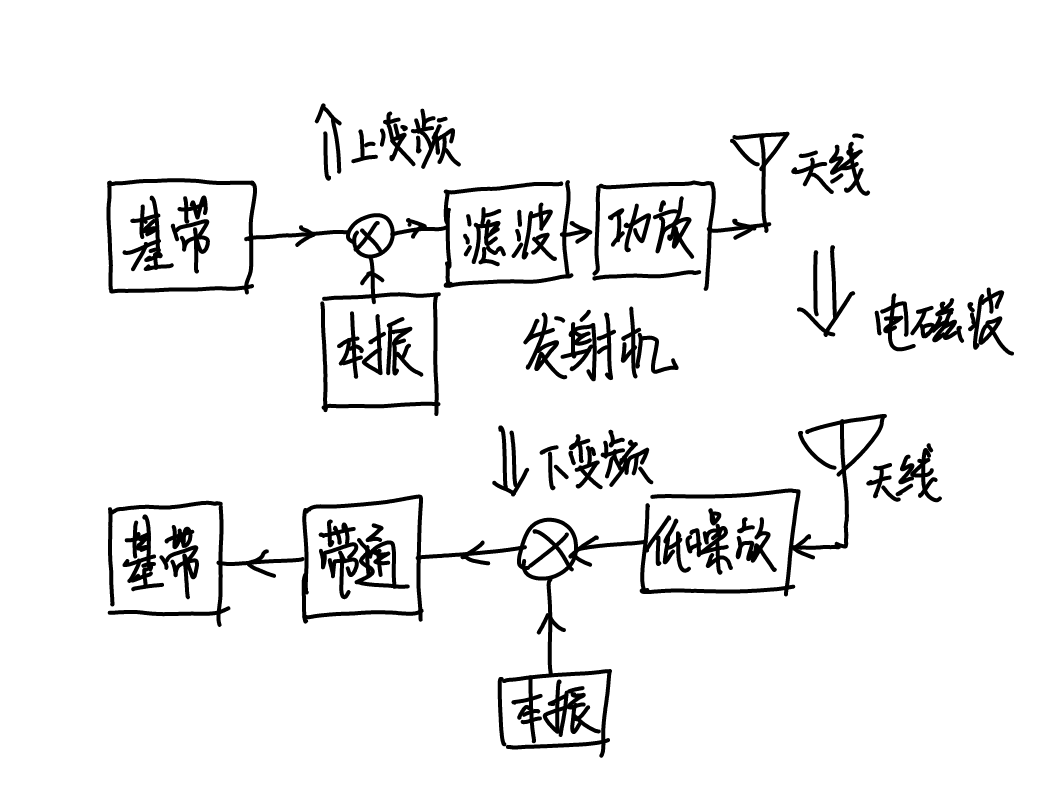
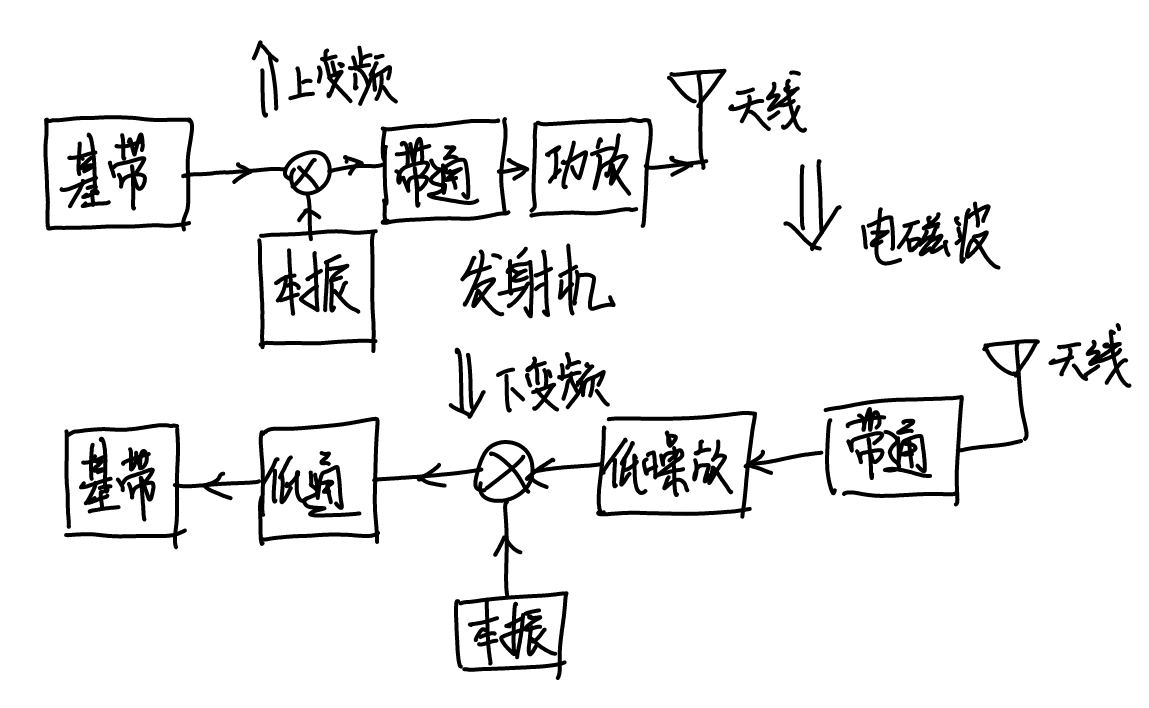
这老印讲的什么狗屁东西

Changed region(s): [[0.0308, 0.0621, 0.9846, 0.9633], [0.3692, 0.5904, 0.4, 0.6215]]

diff --git a/EE6303/信号链IM/信号链IM.md b/EE6303/信号链IM/信号链IM.md
@@ -2,9 +2,9 @@
 
 这名是我起的，主要包含了Example3、4两道例题涉及到的知识点。想先讲一下收发机的信号链路，不然做这个题基本等于抓瞎。
 
-## Example3与收发机的信号链路分析
+## 收发机的信号链路分析
 
-A HF transceiver and a VHF transceiver (both $\mathrm{50\Omega}$) are to operate close to each other. The specifications of the two transceivers are shown in the table. With a separation distance of $100m$, and assuming that the antennas are placed at the same height with maximum coupling, identify the various interference cases and compute the interference margins when the HF is operating at $\mathrm{10MHz}$ and the VHF is operating at $\mathrm{35MHz}$.
+
 
 首先来看一个最简化的发射与接收的信号链路。根据Friss Transfer Function的顺序进行分析
 
@@ -17,13 +17,13 @@ A HF transceiver and a VHF transceiver (both $\mathrm{50\Omega}$) are to operate
 
 ### 发射端发射功率 $P_t$
 
-发射端经过本振上变频至射频后滤除多余的频率分量（这边考虑的模型都是零中频的），随后送进功放提高功率送天线进行发射。这就是发射端信号走过的路径。以Example3中HF天线的特性我们来分析一下发射机的特性（暂时不考虑收和发一体的模型，太烦了）。
+发射端经过本振上变频至射频后经过选频滤波器（滤除天线工作范围以外的频率分量，本振出来会有谐波分量），随后送进功放提高功率送天线进行发射。这就是发射端信号走过的路径。以Example3中HF天线的特性我们来分析一下发射机的特性（暂时不考虑收和发一体的模型，那玩意还有双工器，太烦了）。
 
 <div align=center>
 <img src="example3_fig1.png">
 </div>
 
-首先是2-30MHz，这意味着射频部分的工作带宽。本振能够在2-30MHz调整，滤波器、功放、天线都能够支持2-30MHz的发射。与这个频率范围相对的自然是下面的Bandwidth=25kHz，这一带宽是发射机的实时带宽。也就是说，虽然载波频率能够在2-30MHz范围内调整，但同一时刻的频谱宽度只有25kHz.
+首先是2-30MHz，这意味着射频部分的工作带宽。本振能够在2-30MHz调整，滤波器、功放、天线的通带是2-30MHz，其他频率需要抑制掉。与这个频率范围对应的是下面的Bandwidth=25kHz，这一带宽是发射机的实时带宽，与基带带宽有关。也就是说，虽然载波频率能够在2-30MHz范围内调整，但同一时刻的频谱宽度只有25kHz.
 
 <div align=center>
 <img src="发射机频谱1.png" width=60%>
@@ -34,11 +34,11 @@ A HF transceiver and a VHF transceiver (both $\mathrm{50\Omega}$) are to operate
 
 ##### 概念：一大堆 $dB$
 
-要记住的是只有 $dBm$ 代表的是绝对功率，其他都是相对的功率，也就说 $dB$ 们的计算必须从 $dBm$ 出发到 $dBm$ 去（这话怎么怪怪的）。 $dBc$ 代表相对于中心频率的差值， $dBi$ 代表天线能够提高的增益，路径损耗直接用了 $dB$ 没有后缀。反正只要记住不带 $m$ 的都是相对值，必须有一个绝对值作为参照才能作为最终的结果。
+要记住的是只有 $dBm$ 代表的是绝对功率，其他都是相对的功率，也就说 $dB$ 们的计算必须从 $dBm$ 出发到 $dBm$ 去（这话怎么怪怪的）。 $dBc$ 代表相对于中心频率的差值， $dBi$ 代表天线能够提高的增益，路径损耗、极化损失直接用了 $dB$ 没有后缀。反正只要记住不带 $m$ 的都是相对值，必须有一个绝对值作为参照才能作为最终的结果。
 
 ##### 尝试理解老印的脑回路：Spurious Level
 
-按照老印的思路，发射与接收的Spurious Level其实是要分开看的（反正不是对收发机完整的建模就是了）。这一块我觉得他是把发射时的噪声底和接收时下变频后的低通滤波器带外抑制（想要知道这个低通滤波器怎么来的得从盘古开天辟地开始说起了）混在一起讲了，在做题的时候需要发射与接收分开考虑。发射时的Spurious Level并不会衰减谐波分量，然而在接收时会衰减
+按照老印的思路，发射与接收的Spurious Level其实是要分开看的（反正不是对收发机完整的建模就是了）。这一块我觉得他是把发射时的噪声底和接收时下变频后的低通滤波器带外抑制（下变频时会产生低频和高频分量，需要滤除高频分量保留低频）混在一起讲了，在做题的时候需要发射与接收分开考虑。因为他在计算的时候发射时的Spurious Level并不会衰减谐波分量，然而在接收时会衰减。
 
 <div align=center>
 <img src="两个Spurious.png" width=100%>
@@ -58,9 +58,13 @@ A HF transceiver and a VHF transceiver (both $\mathrm{50\Omega}$) are to operate
 
 对于 $-52dBc$ 和 $-32dBc$ ，我的看法是不要过度纠结于他们的符号，有时候你会看到他们前面并没有负号，但这并不影响我们画出频谱图，因为谐波和噪声底的值肯定是小于载波分量的，我们只需要知道这个大小然后做加减法就可以了。
 
-### 发射端天线增益 $G_t$ 
+### 发射端天线增益 $G_t$ 与接收端天线增益 $G_r$
 
-对于天线增益，老印的建模思路是天线带内的增益不变，带外的增益需要根据频率进行计（估）算。这里我又很想骂人了，到底怎么估的？
+对于天线增益，老印的建模思路是天线带内的增益不变，带外的增益需要根据频率进行计（估）算。
+
+（仔细听了听老印的课，他说这个增益可以直接取带内的增益，问题不大）
+
+#### 偶极子天线
 
 dipole天线可以用公式计算，但是老印给的公式有点问题，他自己用的dipole公式应该是这个：
 
@@ -70,17 +74,147 @@ $$F\left(\theta,\phi\right)=\frac{cos\left(\beta_0 L cos\theta\right)-cos\left(\
 
 $$F\left(\theta,\phi\right)=\frac{sin\left(\beta_0 L cos\theta\right)}{\beta_0 L cos\theta}sin\theta$$
 
-对于Example4里的孔径天线，已知 $f_0$ 频率下 $G_{t0}$ 的可以推出另一频率 $f_1$ 下的 $G_{t1}$ 推导过程如下。
+#### 孔径天线
 
-$$G_{t1}=10log_{10}\left(\frac{4\pi A_e e}{\lambda_1^2}\right)$$
+对于Example4里的孔径天线，已知 $f_0$ 频率下 $G_{0}$ 的可以推出另一频率 $f_1$ 下的 $G_{1}$
+
+推导过程如下。
+
+$$G_{1}=10log_{10}\left(\frac{4\pi A_e e}{\lambda_1^2}\right)$$
 
 把 $\lambda$ 用 $\frac{c}{f}$ 替换，得到
 
-$$G_{t1}=10log_{10}\left(\frac{4\pi A_e e f_0^2}{c^2}\times \frac{f_1^2}{f_0^2}\right)$$
+$$G_{1}=10log_{10}\left(\frac{4\pi A_e e f_0^2}{c^2}\times \frac{f_1^2}{f_0^2}\right)$$
 
 从而得到了
 
-$$G_{t1}\left(\mathrm{dB}\right)=G_{t0}\left(\mathrm{dB}\right)+20log_{10}\left(f_1\right)-20log_{10}\left(f_0\right)$$
+$$G_{1}\left(\mathrm{dB}\right)=G_{0}\left(\mathrm{dB}\right)+20log_{10}\left(f_1\right)-20log_{10}\left(f_0\right)$$
+
+### 路径损耗
+
+没啥好说的，可能是最简单的一个
+
+$$PL(dB)=10log_{10}\left(\frac{\lambda^2}{\left(4\pi r\right)^2}\right)=20log_{10}\left(\frac{300}{4\pi r f_{MHz}}\right)=20log_{10}\left(\frac{300}{4\pi}\right)-20log_{10}{f_{MHz}}-20log_{10}r$$
+
+### 接收端极化损失
+
+判断天线极化类型，极化类型相同就用 $PML\left(\mathrm{dB}\right)=20log_{10}\left(cos^2\theta\right)$ 
+
+极化类型不同额外加上 $3dB$ 极化损失 $PML\left(\mathrm{dB}\right)=3+20log_{10}\left(cos^2\theta\right)$ 
+
+### 接收端灵敏度
+
+这个时候就涉及到了接收机灵敏度。主要关心两个参数，带内的灵敏度和带外抑制，也就是Rx sensitivity和Spurious Level.
+
+带内的灵敏度很好理解，就是接收机工作频率内的灵敏度。带外抑制，按照前文提到的接收机Spurious Level代表下变频低通滤波器的特性，可以对接收机的灵敏度建模。如果一个频率的信号功率大于接收机灵敏度就会被接收机识别到。对于非预期的带外信号，需要功率大于 $-33dBm$ 带内信号则需要大于 $-113dBm$
+
+<div align=center>
+<img src="接收机灵敏度.png" width=60%>
+<br>
+<div>接收机灵敏度建模</div>
+<br>
+</div>
+
+### 噪声容限
+
+把发射机产生的所有东西到接收机的功率全部都算出来，对着频率和灵敏度看。只要产生的功率比灵敏度高就意味着会产生干扰。比灵敏度低的话，这个功率与接收机灵敏度的插值就是噪声容限，意味这个频点可以容纳更多的噪声而不会产生干扰。
+
+#### 概念：TIM
+
+发射端载波频点在接收端的噪声容限
+
+#### 概念：RIM
+
+接收端载波频点在接收端的噪声容限
+
+#### 概念：SIM
+
+除了上述两个频点外其他频率分量在接收端的噪声容限。（发射的谐波算在SIM里）
+
+## Example3
+
+A HF transceiver and a VHF transceiver (both $\mathrm{50\Omega}$) are to operate close to each other. The specifications of the two transceivers are shown in the table. With a separation distance of $100m$, and assuming that the antennas are placed at the same height with maximum coupling, identify the various interference cases and compute the interference margins when the HF is operating at $\mathrm{10MHz}$ and the VHF is operating at $\mathrm{35MHz}$.
+
+<div align=center>
+<img src="example3_fig1.png">
+</div>
+
+### HF天线的载波发射功率：
+
+$${P_t}_{fund}\left(\mathrm{dBm}\right)=10log_{10}\left(5000\right)=37\mathrm{dBm}$$
+
+### 谐波分量发射功率：
+
+$${P_t}_{harmonic}\left(\mathrm{dBm}\right)={P_t}_{fund}-{Harmonic\ Level}=37-32=5\mathrm{dBm}$$
+
+### 发射端噪声底：
+
+$${P_t}_{noise\ floor}\left(\mathrm{dBm}\right)={P_t}_{fund}-{Sprious\ Level}=37-52=5\mathrm{dBm}$$
+
+### 发射端天线对于各频率分量的增益
+
+这边 $40MHz$ 明明在带外了但是老印没有重新估算增益，姑且按照他的来
+
+$$G_t\left(\mathrm{dBi}\right)=1.8\mathrm{dBi}$$
+
+### 路径损耗
+
+两天线距离 $100m$
+
+$$PL\left(\mathrm{dB}\right)=10log_{10}\left(\frac{\lambda^2}{\left(4\pi r\right)^2}\right)$$
+
+带入不同的频率算得：
+
+$$PL_{10MHz}\left(\mathrm{dB}\right)=-32.44\left(\mathrm{dB}\right)$$
+
+$$PL_{20MHz}\left(\mathrm{dB}\right)=-38.46\left(\mathrm{dB}\right)$$
+
+$$PL_{30MHz}\left(\mathrm{dB}\right)=-41.98\left(\mathrm{dB}\right)$$
+
+$$PL_{35MHz}\left(\mathrm{dB}\right)=-43.32\left(\mathrm{dB}\right)$$
+
+$$PL_{40MHz}\left(\mathrm{dB}\right)=-44.48\left(\mathrm{dB}\right)$$
+
+（谐波到底要算几个老印没有说，看这个样子应该是算3个谐波分量？）
+
+### 接收端极化损失
+
+两个天线都是线极化，正对，不存在旋转，所以
+
+$$PML\left(\mathrm{dB}\right)=0\left(\mathrm{dB}\right)$$
+
+### 接收端天线增益
+
+某种很不严谨的估算方法，老印说你可以估也可以不估。这边他估了一下， ${G_r}_{20MHz}=1.85\left(\mathrm{dBi}\right)$ ${G_r}_{10MHz}=1.8\left(\mathrm{dBi}\right)$
+
+其他频率就都是带内的增益 ${G_r}=1.9\left(\mathrm{dBi}\right)$
+
+### 综合考虑所有因素后可以在接收端算出各个频率分量的功率
+
+$$P_r\left(\mathrm{dBm}\right)=P_t\left(\mathrm{dBm}\right)+G_t\left(\mathrm{dBi}\right)+PL\left(\mathrm{dB}\right)+PML\left(\mathrm{dB}\right)+G_r\left(\mathrm{dBi}\right)$$
+
+（我不是很想把谐波和杂散抑制都掺和进这个公式，他们应该在计算 $P_t$ 和接收机灵敏度的时候考虑）
+
+$${P_r}_{10MHz}\left(\mathrm{dBm}\right)=8.2\left(\mathrm{dBm}\right)$$
+
+$${P_r}_{20MHz}\left(\mathrm{dBm}\right)=-29.75\left(\mathrm{dBm}\right)$$
+
+$${P_r}_{30MHz}\left(\mathrm{dBm}\right)=-33.2\left(\mathrm{dBm}\right)$$
+
+$${P_r}_{35MHz}\left(\mathrm{dBm}\right)=-54.6\left(\mathrm{dBm}\right)$$
+
+$${P_r}_{40MHz}\left(\mathrm{dBm}\right)=-35.7\left(\mathrm{dBm}\right)$$
+
+### 结合接收机的灵敏度特性可以发现
+
+接收机存在 $10\mathrm{MHz}$ 、 $20\mathrm{MHz}$ 、 $35\mathrm{MHz}$ 的干扰，其他地方的噪声容限是接收功率和灵敏度的差值。
+
+### 反过来也是一样的步骤（好烦啊！！！）
 
 ## Example4
 
+A rotating navigation radar is being placed on a mast at the ship deck. A above band VSAT antenna placed on the deck, away from the navigation radar mast is pointing towards a satellite in the aft direction making an elevation angle of with respect to the horizon. The center of the VSAT antenna is elevated at navigation radar operates at and received at above the deck. The while the VSAT transmits at systems.
+
+<div align=center>
+<img src="example4_fig1.png">
+</div>

diff --git a/EE6303/波的传导/波的传导.md b/EE6303/波的传导/波的传导.md
@@ -87,9 +87,11 @@ $$P_{rx}=\frac{E_{rx}^2}{\eta_0}=P_{inc}cos^2\theta$$
 
 $$P_{rx}\left(\mathrm{dB}\right)=P_{inc}\left(\mathrm{dB}\right)+20log_{10}\left(cos^2\theta\right)$$
 
-### 电磁波极化类型：圆极化
+### 线极化的远场端极化损失计算
 
-圆极化可以视为两个线极化的叠加，传递到线极化的话自然存在损失，这个值不好算，老印取了大约 $3dB$
+圆极化可以分为顺时针圆极化和逆时针圆极化，可以视为两个线极化的叠加。所以传递到线极化的话自然存在损失，这个值不好算，老印取了大约 $3dB$
+
+在计算圆极化与线极化之间造成的极化损失时只需要在 $20log_{10}\left(cos^2\theta\right)$ 的基础上额外损失 $3dB$ 就可以了。
 
 # 例题题解
 ## Example2a
